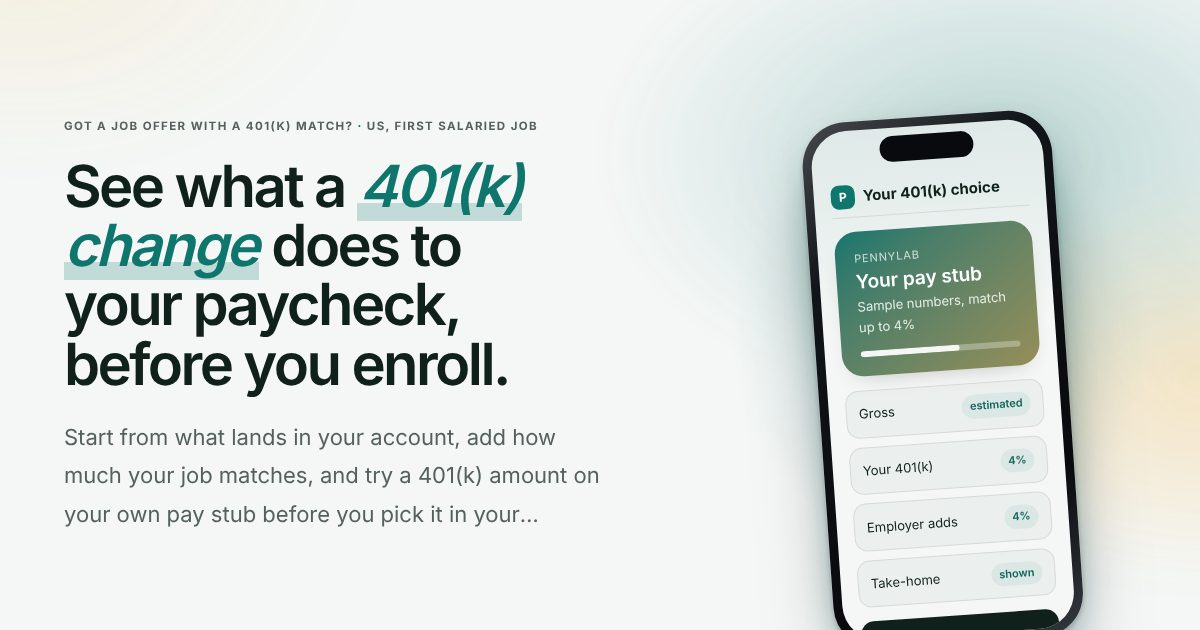
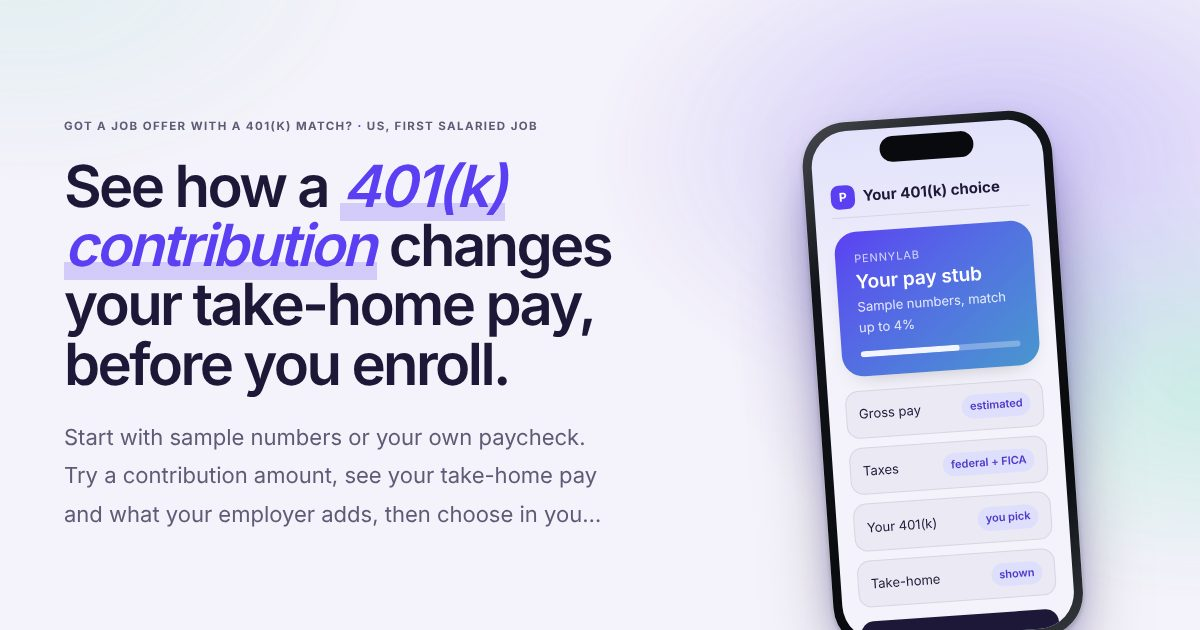
Pennylab page: apply ChatGPT review

diff --git a/pennylab/index.html b/pennylab/index.html
@@ -7,7 +7,7 @@
 <meta name="description" content="Try a 401(k) contribution on your own paycheck and your employer&#x27;s match: see your pay stub, take-home pay and the match you get, with the math shown. No bank link.">
 <link rel="canonical" href="https://nisico.eu/pennylab/">
 <meta name="robots" content="index, follow, max-image-preview:large">
-<meta name="theme-color" content="#F4F7F6">
+<meta name="theme-color" content="#F4F2FA">
 <meta property="og:type" content="website">
 <meta property="og:site_name" content="NISICO">
 <meta property="og:title" content="Pennylab: see what a 401(k) contribution does to your paycheck before you enroll">
@@ -24,9 +24,9 @@
 <link rel="stylesheet" href="/assets/coming-soon.css">
 <link rel="icon" href="/assets/favicon.svg" type="image/svg+xml">
 <script type="application/ld+json">{"@context": "https://schema.org", "@type": "WebPage", "name": "Pennylab: see what a 401(k) contribution does to your paycheck before you enroll", "description": "Try a 401(k) contribution on your own paycheck and your employer's match: see your pay stub, take-home pay and the match you get, with the math shown. No bank link.", "url": "https://nisico.eu/pennylab/", "inLanguage": "en", "isPartOf": {"@type": "WebSite", "name": "NISICO", "url": "https://nisico.eu/"}, "publisher": {"@type": "Organization", "name": "NISICO TECHNOLOGIES SRL", "url": "https://nisico.eu/", "email": "support@nisico.eu"}, "breadcrumb": {"@type": "BreadcrumbList", "itemListElement": [{"@type": "ListItem", "position": 1, "name": "NISICO", "item": "https://nisico.eu/"}, {"@type": "ListItem", "position": 2, "name": "Apps", "item": "https://nisico.eu/apps/"}, {"@type": "ListItem", "position": 3, "name": "Pennylab", "item": "https://nisico.eu/pennylab/"}]}}</script>
-<script type="application/ld+json">{"@context": "https://schema.org", "@type": "FAQPage", "mainEntity": [{"@type": "Question", "name": "Who is it for?", "acceptedAnswer": {"@type": "Answer", "text": "People starting a salaried job in the US who have to pick a 401(k) contribution and want to see the effect on their paycheck first."}}, {"@type": "Question", "name": "Do I have to link my bank or employer account?", "acceptedAnswer": {"@type": "Answer", "text": "No. You type a few numbers yourself, or start with sample numbers. Pennylab never connects to your bank, payroll or 401(k) account. It is built by NISICO, a small independent software studio; no bank, employer or plan provider is involved."}}, {"@type": "Question", "name": "What exactly is estimated?", "acceptedAnswer": {"@type": "Answer", "text": "Your pay before taxes is worked back from your paycheck, and taxes use 2026 federal income tax for a single filer plus Social Security and Medicare. State tax is not included yet. Each estimate is marked, and you can edit your yearly pay if you know it."}}, {"@type": "Question", "name": "Is it free?", "acceptedAnswer": {"@type": "Answer", "text": "The first decision is free. Deeper scenarios may come as an optional one-time purchase, never a subscription you forget about."}}, {"@type": "Question", "name": "Does it tell me what to invest in?", "acceptedAnswer": {"@type": "Answer", "text": "No. It shows what a 401(k) contribution does to your paycheck and match. It never recommends funds or securities."}}]}</script>
+<script type="application/ld+json">{"@context": "https://schema.org", "@type": "FAQPage", "mainEntity": [{"@type": "Question", "name": "What does the estimate include?", "acceptedAnswer": {"@type": "Answer", "text": "Your pay before taxes is worked back from your paycheck. Taxes use 2026 federal income tax for a single filer plus Social Security and Medicare. State income tax is not included yet. Every estimate is marked, and the math is shown under the result."}}, {"@type": "Question", "name": "Does it handle every employer match formula?", "acceptedAnswer": {"@type": "Answer", "text": "Not yet. Pennylab supports a simple dollar-for-dollar match up to a percentage of pay. For a 50% or tiered match, our guide on how a 401(k) match works shows the math."}}, {"@type": "Question", "name": "Do I have to connect my bank or employer account?", "acceptedAnswer": {"@type": "Answer", "text": "No. You type a few numbers yourself, or start with sample numbers. Pennylab never connects to your bank, payroll or 401(k) account. It is built by NISICO, a small independent software studio; no bank, employer or plan provider is involved."}}, {"@type": "Question", "name": "Does it recommend investments?", "acceptedAnswer": {"@type": "Answer", "text": "No. It shows what a 401(k) contribution does to your paycheck and match. It never recommends funds or securities."}}, {"@type": "Question", "name": "Is it free?", "acceptedAnswer": {"@type": "Answer", "text": "The first decision is free. Deeper scenarios may come as an optional one-time purchase, never a subscription you forget about."}}]}</script>
 </head>
-<body class="" style="--bg:#F4F7F6;--ink:#10201B;--accent:#0F766E;--accent2:#F59E0B;--display:var(--sans);--scheme:light">
+<body class="" style="--bg:#F4F2FA;--ink:#1E1838;--accent:#5B3FF2;--accent2:#2FD49A;--display:var(--sans);--scheme:light">
 <a class="skip" href="#main">Skip to content</a>
 <header class="bar">
   <a class="brand" href="/pennylab/"><span class="logo">P</span>Pennylab</a>
@@ -38,8 +38,8 @@
   <div class="glow" aria-hidden="true"></div>
   <div class="hero-copy">
     <p class="kicker">Got a job offer with a 401(k) match? <span>&middot;</span> US, first salaried job</p>
-    <h1>See what a <em>401(k) change</em> does to your paycheck, before you enroll.</h1>
-    <p class="lead">Start from what lands in your account, add how much your job matches, and try a 401(k) amount on your own pay stub before you pick it in your benefits portal. Example: if your job matches up to 4% of a $60,000 salary, putting in 2% leaves $1,200 a year of match unclaimed. Every estimate is labelled, and the math is shown.</p>
+    <h1>See how a <em>401(k) contribution</em> changes your take-home pay, before you enroll.</h1>
+    <p class="lead">Start with sample numbers or your own paycheck. Try a contribution amount, see your take-home pay and what your employer adds, then choose in your benefits portal. Estimates include federal income tax, Social Security and Medicare; state tax is not included yet.</p>
     <form class="wl" data-app="Pennylab" data-slug="pennylab" novalidate>
   <div class="wl-row">
     <label class="sr" for="em1">Email address</label>
@@ -59,7 +59,7 @@
     <div class="ps-top"><span class="ps-logo">P</span><span class="ps-title">Your 401(k) choice</span></div>
     <div class="ps-hero"><small>Pennylab</small><strong>Your pay stub</strong><span>Sample numbers, match up to 4%</span>
       <div class="ps-bar"><i></i></div></div>
-    <ul class="ps-rows"><li><span>Gross</span><b class="v-estimated">estimated</b></li><li><span>Your 401(k)</span><b class="v-4%">4%</b></li><li><span>Employer adds</span><b class="v-4%">4%</b></li><li><span>Take-home</span><b class="v-shown">shown</b></li></ul>
+    <ul class="ps-rows"><li><span>Gross pay</span><b class="v-estimated">estimated</b></li><li><span>Taxes</span><b class="v-federal">federal + FICA</b></li><li><span>Your 401(k)</span><b class="v-you">you pick</b></li><li><span>Take-home</span><b class="v-shown">shown</b></li></ul>
     <div class="ps-cta">Continue</div>
   </div>
 </div><div class="chips"><span class="chip c0"><svg class="ico sm" viewBox="0 0 24 24" aria-hidden="true"><rect x="3" y="6" width="18" height="13" rx="2"/><path d="M3 10h18M16 14.5h2"/></svg>Your paycheck, before and after</span><span class="chip c1"><svg class="ico sm" viewBox="0 0 24 24" aria-hidden="true"><circle cx="12" cy="12" r="8"/><circle cx="12" cy="12" r="4"/><circle cx="12" cy="12" r=".8"/></svg>The match you get, and the match you miss</span></div></div>
@@ -67,7 +67,7 @@
 
 <section class="sec shots-sec" aria-labelledby="i-h">
   <h2 id="i-h" class="sec-h">Inside Pennylab</h2>
-  <div class="shots"><figure class="shot"><div class="shot-frame"><img src="/pennylab/media/01-welcome.webp" alt="Start with your paycheck, or sample numbers" width="390" height="844" loading="lazy" decoding="async"></div><figcaption>Start with your paycheck, or sample numbers</figcaption></figure><figure class="shot"><div class="shot-frame"><img src="/pennylab/media/02-month-and-match.webp" alt="Tell it how much your job matches" width="390" height="844" loading="lazy" decoding="async"></div><figcaption>Tell it how much your job matches</figcaption></figure><figure class="shot"><div class="shot-frame"><img src="/pennylab/media/03-result.webp" alt="See where your pay goes, with the math shown" width="390" height="844" loading="lazy" decoding="async"></div><figcaption>See where your pay goes, with the math shown</figcaption></figure><figure class="shot"><div class="shot-frame"><img src="/pennylab/media/04-paystub-401k.webp" alt="Try a 401(k) amount on your own pay stub" width="390" height="844" loading="lazy" decoding="async"></div><figcaption>Try a 401(k) amount on your own pay stub</figcaption></figure></div>
+  <div class="shots"><figure class="shot"><div class="shot-frame"><img src="/pennylab/media/03-result.webp" alt="Take-home pay and taxes, with the math shown (sample numbers)" width="390" height="844" loading="lazy" decoding="async"></div><figcaption>Take-home pay and taxes, with the math shown (sample numbers)</figcaption></figure><figure class="shot"><div class="shot-frame"><img src="/pennylab/media/02-month-and-match.webp" alt="Tell it how much your job matches" width="390" height="844" loading="lazy" decoding="async"></div><figcaption>Tell it how much your job matches</figcaption></figure><figure class="shot"><div class="shot-frame"><img src="/pennylab/media/04-paystub-401k.webp" alt="Try a 401(k) amount on your own pay stub" width="390" height="844" loading="lazy" decoding="async"></div><figcaption>Try a 401(k) amount on your own pay stub</figcaption></figure><figure class="shot"><div class="shot-frame"><img src="/pennylab/media/01-welcome.webp" alt="Start with your paycheck, or sample numbers" width="390" height="844" loading="lazy" decoding="async"></div><figcaption>Start with your paycheck, or sample numbers</figcaption></figure></div>
 </section>
 
 <section class="sec" aria-labelledby="f-h">
@@ -90,12 +90,12 @@
 
 <section class="sec" aria-labelledby="q-h">
   <h2 id="q-h" class="sec-h">Questions</h2>
-  <div class="faq"><details><summary>Who is it for?</summary><p>People starting a salaried job in the US who have to pick a 401(k) contribution and want to see the effect on their paycheck first.</p></details><details><summary>Do I have to link my bank or employer account?</summary><p>No. You type a few numbers yourself, or start with sample numbers. Pennylab never connects to your bank, payroll or 401(k) account. It is built by NISICO, a small independent software studio; no bank, employer or plan provider is involved.</p></details><details><summary>What exactly is estimated?</summary><p>Your pay before taxes is worked back from your paycheck, and taxes use 2026 federal income tax for a single filer plus Social Security and Medicare. State tax is not included yet. Each estimate is marked, and you can edit your yearly pay if you know it.</p></details><details><summary>Is it free?</summary><p>The first decision is free. Deeper scenarios may come as an optional one-time purchase, never a subscription you forget about.</p></details><details><summary>Does it tell me what to invest in?</summary><p>No. It shows what a 401(k) contribution does to your paycheck and match. It never recommends funds or securities.</p></details></div>
+  <div class="faq"><details><summary>What does the estimate include?</summary><p>Your pay before taxes is worked back from your paycheck. Taxes use 2026 federal income tax for a single filer plus Social Security and Medicare. State income tax is not included yet. Every estimate is marked, and the math is shown under the result.</p></details><details><summary>Does it handle every employer match formula?</summary><p>Not yet. Pennylab supports a simple dollar-for-dollar match up to a percentage of pay. For a 50% or tiered match, our guide on how a 401(k) match works shows the math.</p></details><details><summary>Do I have to connect my bank or employer account?</summary><p>No. You type a few numbers yourself, or start with sample numbers. Pennylab never connects to your bank, payroll or 401(k) account. It is built by NISICO, a small independent software studio; no bank, employer or plan provider is involved.</p></details><details><summary>Does it recommend investments?</summary><p>No. It shows what a 401(k) contribution does to your paycheck and match. It never recommends funds or securities.</p></details><details><summary>Is it free?</summary><p>The first decision is free. Deeper scenarios may come as an optional one-time purchase, never a subscription you forget about.</p></details></div>
 </section>
 
 <section class="sec" aria-labelledby="g-h">
   <h2 id="g-h" class="sec-h">Guides</h2>
-  <div class="guides"><a class="guide-card" href="/pennylab/guides/how-401k-match-works/"><span class="g-k">Guide</span><b>How does a 401(k) match work, and how much should you put in to get all of it?</b><span>A 401(k) match is money your employer adds when you contribute. How to read your match formula, find the rate that gets all of it, and check vesting.</span><span class="g-go">Read the guide &rarr;</span></a><a class="guide-card" href="/pennylab/guides/401k-contribution-take-home-pay/"><span class="g-k">Guide</span><b>How much will a 401(k) contribution lower my take-home pay?</b><span>A pre-tax 401(k) contribution lowers your paycheck by less than you put in, because income tax withholding drops too. The math, step by step, and Roth.</span><span class="g-go">Read the guide &rarr;</span></a><a class="guide-card" href="/pennylab/guides/first-paycheck-smaller-than-expected/"><span class="g-k">Guide</span><b>Why is my first paycheck smaller than I expected? How to read your first pay stub</b><span>Your first paycheck is gross pay minus taxes and deductions, and the first one can also be a partial period. Learn each line of a pay stub and what to check.</span><span class="g-go">Read the guide &rarr;</span></a></div>
+  <div class="guides"><a class="guide-card" href="/pennylab/guides/how-401k-match-works/"><span class="g-k">Guide</span><b>401(k) match explained: how much to contribute to get the full match</b><span>A 401(k) match is money your employer adds when you contribute. How to read your match formula, find the rate that gets all of it, and check vesting.</span><span class="g-go">Read the guide &rarr;</span></a><a class="guide-card" href="/pennylab/guides/401k-contribution-take-home-pay/"><span class="g-k">Guide</span><b>How much does a 401(k) contribution reduce your paycheck?</b><span>A pre-tax 401(k) contribution lowers your paycheck by less than you put in, because income tax withholding drops too. The math, step by step, and Roth.</span><span class="g-go">Read the guide &rarr;</span></a><a class="guide-card" href="/pennylab/guides/first-paycheck-smaller-than-expected/"><span class="g-k">Guide</span><b>Why is my first paycheck smaller than I expected? How to read your first pay stub</b><span>Your first paycheck is gross pay minus taxes and deductions, and the first one can also be a partial period. Learn each line of a pay stub and what to check.</span><span class="g-go">Read the guide &rarr;</span></a></div>
 </section>
 
 <section class="sec join" id="join" aria-labelledby="j-h">

diff --git a/pennylab/guides/how-401k-match-works/index.html b/pennylab/guides/how-401k-match-works/index.html
@@ -3,30 +3,30 @@
 <head>
 <meta charset="utf-8">
 <meta name="viewport" content="width=device-width, initial-scale=1, viewport-fit=cover">
-<title>How does a 401(k) match work, and how much should you put in to get all of it? | Pennylab</title>
+<title>401(k) match explained: how much to contribute to get the full match | Pennylab</title>
 <meta name="description" content="A 401(k) match is money your employer adds when you contribute. How to read your match formula, find the rate that gets all of it, and check vesting.">
 <link rel="canonical" href="https://nisico.eu/pennylab/guides/how-401k-match-works/">
 <meta name="robots" content="index, follow, max-image-preview:large">
-<meta name="theme-color" content="#F4F7F6">
+<meta name="theme-color" content="#F4F2FA">
 <meta property="og:type" content="website">
 <meta property="og:site_name" content="NISICO">
-<meta property="og:title" content="How does a 401(k) match work, and how much should you put in to get all of it? | Pennylab">
+<meta property="og:title" content="401(k) match explained: how much to contribute to get the full match | Pennylab">
 <meta property="og:description" content="A 401(k) match is money your employer adds when you contribute. How to read your match formula, find the rate that gets all of it, and check vesting.">
 <meta property="og:url" content="https://nisico.eu/pennylab/guides/how-401k-match-works/">
 <meta property="og:image" content="https://nisico.eu/pennylab/og.jpg">
 <meta property="og:image:width" content="1200">
 <meta property="og:image:height" content="630">
 <meta name="twitter:card" content="summary_large_image">
-<meta name="twitter:title" content="How does a 401(k) match work, and how much should you put in to get all of it? | Pennylab">
+<meta name="twitter:title" content="401(k) match explained: how much to contribute to get the full match | Pennylab">
 <meta name="twitter:description" content="A 401(k) match is money your employer adds when you contribute. How to read your match formula, find the rate that gets all of it, and check vesting.">
 <meta name="twitter:image" content="https://nisico.eu/pennylab/og.jpg">
 <link rel="preload" href="/assets/fonts/inter-latin-wght.woff2" as="font" type="font/woff2" crossorigin>
 <link rel="stylesheet" href="/assets/coming-soon.css">
 <link rel="icon" href="/assets/favicon.svg" type="image/svg+xml">
-<script type="application/ld+json">{"@context": "https://schema.org", "@type": "Article", "headline": "How does a 401(k) match work, and how much should you put in to get all of it?", "description": "A 401(k) match is money your employer adds when you contribute. How to read your match formula, find the rate that gets all of it, and check vesting.", "datePublished": "2026-11-02", "dateModified": "2026-11-02", "inLanguage": "en", "mainEntityOfPage": "https://nisico.eu/pennylab/guides/how-401k-match-works/", "image": "https://nisico.eu/pennylab/og.jpg", "author": {"@type": "Organization", "name": "The Pennylab team at NISICO", "url": "https://nisico.eu/"}, "publisher": {"@type": "Organization", "name": "NISICO TECHNOLOGIES SRL", "url": "https://nisico.eu/", "logo": {"@type": "ImageObject", "url": "https://nisico.eu/assets/favicon.svg"}}}</script>
-<script type="application/ld+json">{"@context": "https://schema.org", "@type": "BreadcrumbList", "itemListElement": [{"@type": "ListItem", "position": 1, "name": "NISICO", "item": "https://nisico.eu/"}, {"@type": "ListItem", "position": 2, "name": "Pennylab", "item": "https://nisico.eu/pennylab/"}, {"@type": "ListItem", "position": 3, "name": "How does a 401(k) match work, and how much should you put in to get all of it?", "item": "https://nisico.eu/pennylab/guides/how-401k-match-works/"}]}</script>
+<script type="application/ld+json">{"@context": "https://schema.org", "@type": "Article", "headline": "401(k) match explained: how much to contribute to get the full match", "description": "A 401(k) match is money your employer adds when you contribute. How to read your match formula, find the rate that gets all of it, and check vesting.", "datePublished": "2026-11-02", "dateModified": "2026-11-02", "inLanguage": "en", "mainEntityOfPage": "https://nisico.eu/pennylab/guides/how-401k-match-works/", "image": "https://nisico.eu/pennylab/og.jpg", "author": {"@type": "Organization", "name": "The Pennylab team at NISICO", "url": "https://nisico.eu/"}, "publisher": {"@type": "Organization", "name": "NISICO TECHNOLOGIES SRL", "url": "https://nisico.eu/", "logo": {"@type": "ImageObject", "url": "https://nisico.eu/assets/favicon.svg"}}}</script>
+<script type="application/ld+json">{"@context": "https://schema.org", "@type": "BreadcrumbList", "itemListElement": [{"@type": "ListItem", "position": 1, "name": "NISICO", "item": "https://nisico.eu/"}, {"@type": "ListItem", "position": 2, "name": "Pennylab", "item": "https://nisico.eu/pennylab/"}, {"@type": "ListItem", "position": 3, "name": "401(k) match explained: how much to contribute to get the full match", "item": "https://nisico.eu/pennylab/guides/how-401k-match-works/"}]}</script>
 </head>
-<body class="guide-page " style="--bg:#F4F7F6;--ink:#10201B;--accent:#0F766E;--accent2:#F59E0B;--display:var(--sans);--scheme:light">
+<body class="guide-page " style="--bg:#F4F2FA;--ink:#1E1838;--accent:#5B3FF2;--accent2:#2FD49A;--display:var(--sans);--scheme:light">
 <a class="skip" href="#main">Skip to content</a>
 <header class="bar">
   <a class="brand" href="/pennylab/"><span class="logo">P</span>Pennylab</a>
@@ -35,7 +35,7 @@
 </header>
 <main id="main" class="article">
   <nav class="crumbs" aria-label="Breadcrumb"><a href="/pennylab/">Pennylab</a> <span>/</span> Guides</nav>
-  <h1>How does a 401(k) match work, and how much should you put in to get all of it?</h1>
+  <h1>401(k) match explained: how much to contribute to get the full match</h1>
   <p class="a-lead">A 401(k) match is money your employer adds when you contribute. How to read your match formula, find the rate that gets all of it, and check vesting.</p>
   <p class="a-meta">By the Pennylab team &middot; Updated <time datetime="2026-11-02">2026-11-02</time></p>
   <article class="prose"><p><strong>Short answer:</strong> an employer match is money your employer adds to your 401(k) when you contribute from your own paycheck. The formula in your offer letter or plan booklet tells you how much they add and up to what point. To get the whole match, you contribute at least up to the limit in that formula (for example, 6% of pay for a "50% up to 6%" match). Below that rate, you leave part of the match unclaimed. Whether you also <em>keep</em> the match if you leave the job depends on your plan's vesting schedule.</p>
@@ -95,7 +95,7 @@
 </tbody>
 </table>
 <p>Going from 6% to 10% puts more of your own money in, but the employer adds nothing more. Going from 3% to 6% doubles what the employer adds. That is why the "up to" number is a natural first checkpoint.</p>
-<p>What this table does <em>not</em> show is what each rate does to your take-home pay, which is often the real worry in a first job. A traditional (pre-tax) contribution lowers your paycheck by less than the amount you contribute, because it also lowers your income tax withholding. We walk through that in <a href="/pennylab/guides/401k-contribution-take-home-pay/">How much will a 401(k) contribution lower my take-home pay?</a>.</p>
+<p>What this table does <em>not</em> show is what each rate does to your take-home pay, which is often the real worry in a first job. A traditional (pre-tax) contribution lowers your paycheck by less than the amount you contribute, because it also lowers your income tax withholding. We walk through that in <a href="/pennylab/guides/401k-contribution-take-home-pay/">How much does a 401(k) contribution reduce your paycheck?</a>.</p>
 <h2>Four details that change the answer</h2>
 <h3>1. Vesting: when the match is really yours</h3>
 <p>Your own contributions are always 100% yours. The employer's match may vest over time. Under federal rules, a plan's match must vest at least as fast as one of two schedules: 100% after 3 years of service ("cliff"), or a graded schedule that reaches 20% after 2 years and 100% after 6 (<a href="https://www.irs.gov/retirement-plans/plan-participant-employee/retirement-topics-vesting">IRS, Retirement Topics: Vesting</a>). Many plans vest faster, some immediately. If you might leave within a couple of years, check your schedule in the SPD.</p>
@@ -119,7 +119,7 @@
 <p>Pennylab is a simulator for this decision. You enter what lands in your account each payday and up to how much of your pay your job matches (or start with sample numbers), then try a 401(k) amount on your own pay stub and see your take-home pay and what your employer adds, with the math shown under the result. It handles the simple "matches up to X% of pay" case today; for a 50% or tiered formula, use the table above. It does not link to your bank or employer and does not recommend investments.</p>
 <p><em>This guide is general education, not financial, tax or legal advice. Plans differ; your plan documents are the final word.</em></p></article>
   <section class="sources"><h2>Sources</h2><ol><li><a href="https://corporate.vanguard.com/content/corporatesite/us/en/corp/articles/new-401k-match-formulas-can-unlock-retirement-gains.html" rel="noopener">Vanguard research, 2026</a></li><li><a href="https://www.irs.gov/retirement-plans/plan-participant-employee/retirement-topics-vesting" rel="noopener">IRS, Retirement Topics: Vesting</a></li><li><a href="https://www.irs.gov/taxtopics/tc424" rel="noopener">IRS Topic 424</a></li><li><a href="https://www.irs.gov/retirement-plans/roth-comparison-chart" rel="noopener">IRS Roth comparison chart</a></li><li><a href="https://www.irs.gov/newsroom/401k-limit-increases-to-24500-for-2026-ira-limit-increases-to-7500" rel="noopener">IRS, Nov. 13, 2025</a></li></ol></section>
-  <section class="a-cta" id="join"><h2>Pennylab: See what a 401(k) change does to your paycheck, before you enroll.</h2><p>Start from what lands in your account, add how much your job matches, and try a 401(k) amount on your own pay stub before you pick it in your benefits portal. Example: if your job matches up to 4% of a $60,000 salary, putting in 2% leaves $1,200 a year of match unclaimed. Every estimate is labelled, and the math is shown.</p><form class="wl" data-app="Pennylab" data-slug="pennylab" novalidate>
+  <section class="a-cta" id="join"><h2>Pennylab: See how a 401(k) contribution changes your take-home pay, before you enroll.</h2><p>Start with sample numbers or your own paycheck. Try a contribution amount, see your take-home pay and what your employer adds, then choose in your benefits portal. Estimates include federal income tax, Social Security and Medicare; state tax is not included yet.</p><form class="wl" data-app="Pennylab" data-slug="pennylab" novalidate>
   <div class="wl-row">
     <label class="sr" for="em3">Email address</label>
     <input id="em3" type="email" name="email" autocomplete="email" inputmode="email" placeholder="you@example.com" required aria-describedby="note3 err3">
@@ -130,7 +130,7 @@
   <p class="wl-note" id="note3">One email when Pennylab launches. No spam, unsubscribe any time. <a href="#privacy">How we use it</a>.</p>
   <p class="wl-done" role="status" aria-live="polite" hidden></p>
 </form></section>
-  <aside class="g-more"><h2>More guides</h2><ul><li><a href="/pennylab/guides/401k-contribution-take-home-pay/">How much will a 401(k) contribution lower my take-home pay?</a></li><li><a href="/pennylab/guides/first-paycheck-smaller-than-expected/">Why is my first paycheck smaller than I expected? How to read your first pay stub</a></li></ul></aside>
+  <aside class="g-more"><h2>More guides</h2><ul><li><a href="/pennylab/guides/401k-contribution-take-home-pay/">How much does a 401(k) contribution reduce your paycheck?</a></li><li><a href="/pennylab/guides/first-paycheck-smaller-than-expected/">Why is my first paycheck smaller than I expected? How to read your first pay stub</a></li></ul></aside>
 </main>
 <footer class="foot">
   <p class="disc">Pennylab is an educational simulator. It does not provide financial, tax, legal or investment advice, and its results are estimates. It is not affiliated with or endorsed by the IRS, any employer, plan provider or financial institution. This guide is general information, not professional advice.</p>

diff --git a/pennylab/guides/401k-contribution-take-home-pay/index.html b/pennylab/guides/401k-contribution-take-home-pay/index.html
@@ -3,30 +3,30 @@
 <head>
 <meta charset="utf-8">
 <meta name="viewport" content="width=device-width, initial-scale=1, viewport-fit=cover">
-<title>How much will a 401(k) contribution lower my take-home pay? | Pennylab</title>
+<title>How much does a 401(k) contribution reduce your paycheck? | Pennylab</title>
 <meta name="description" content="A pre-tax 401(k) contribution lowers your paycheck by less than you put in, because income tax withholding drops too. The math, step by step, and Roth.">
 <link rel="canonical" href="https://nisico.eu/pennylab/guides/401k-contribution-take-home-pay/">
 <meta name="robots" content="index, follow, max-image-preview:large">
-<meta name="theme-color" content="#F4F7F6">
+<meta name="theme-color" content="#F4F2FA">
 <meta property="og:type" content="website">
 <meta property="og:site_name" content="NISICO">
-<meta property="og:title" content="How much will a 401(k) contribution lower my take-home pay? | Pennylab">
+<meta property="og:title" content="How much does a 401(k) contribution reduce your paycheck? | Pennylab">
 <meta property="og:description" content="A pre-tax 401(k) contribution lowers your paycheck by less than you put in, because income tax withholding drops too. The math, step by step, and Roth.">
 <meta property="og:url" content="https://nisico.eu/pennylab/guides/401k-contribution-take-home-pay/">
 <meta property="og:image" content="https://nisico.eu/pennylab/og.jpg">
 <meta property="og:image:width" content="1200">
 <meta property="og:image:height" content="630">
 <meta name="twitter:card" content="summary_large_image">
-<meta name="twitter:title" content="How much will a 401(k) contribution lower my take-home pay? | Pennylab">
+<meta name="twitter:title" content="How much does a 401(k) contribution reduce your paycheck? | Pennylab">
 <meta name="twitter:description" content="A pre-tax 401(k) contribution lowers your paycheck by less than you put in, because income tax withholding drops too. The math, step by step, and Roth.">
 <meta name="twitter:image" content="https://nisico.eu/pennylab/og.jpg">
 <link rel="preload" href="/assets/fonts/inter-latin-wght.woff2" as="font" type="font/woff2" crossorigin>
 <link rel="stylesheet" href="/assets/coming-soon.css">
 <link rel="icon" href="/assets/favicon.svg" type="image/svg+xml">
-<script type="application/ld+json">{"@context": "https://schema.org", "@type": "Article", "headline": "How much will a 401(k) contribution lower my take-home pay?", "description": "A pre-tax 401(k) contribution lowers your paycheck by less than you put in, because income tax withholding drops too. The math, step by step, and Roth.", "datePublished": "2026-11-02", "dateModified": "2026-11-02", "inLanguage": "en", "mainEntityOfPage": "https://nisico.eu/pennylab/guides/401k-contribution-take-home-pay/", "image": "https://nisico.eu/pennylab/og.jpg", "author": {"@type": "Organization", "name": "The Pennylab team at NISICO", "url": "https://nisico.eu/"}, "publisher": {"@type": "Organization", "name": "NISICO TECHNOLOGIES SRL", "url": "https://nisico.eu/", "logo": {"@type": "ImageObject", "url": "https://nisico.eu/assets/favicon.svg"}}}</script>
-<script type="application/ld+json">{"@context": "https://schema.org", "@type": "BreadcrumbList", "itemListElement": [{"@type": "ListItem", "position": 1, "name": "NISICO", "item": "https://nisico.eu/"}, {"@type": "ListItem", "position": 2, "name": "Pennylab", "item": "https://nisico.eu/pennylab/"}, {"@type": "ListItem", "position": 3, "name": "How much will a 401(k) contribution lower my take-home pay?", "item": "https://nisico.eu/pennylab/guides/401k-contribution-take-home-pay/"}]}</script>
+<script type="application/ld+json">{"@context": "https://schema.org", "@type": "Article", "headline": "How much does a 401(k) contribution reduce your paycheck?", "description": "A pre-tax 401(k) contribution lowers your paycheck by less than you put in, because income tax withholding drops too. The math, step by step, and Roth.", "datePublished": "2026-11-02", "dateModified": "2026-11-02", "inLanguage": "en", "mainEntityOfPage": "https://nisico.eu/pennylab/guides/401k-contribution-take-home-pay/", "image": "https://nisico.eu/pennylab/og.jpg", "author": {"@type": "Organization", "name": "The Pennylab team at NISICO", "url": "https://nisico.eu/"}, "publisher": {"@type": "Organization", "name": "NISICO TECHNOLOGIES SRL", "url": "https://nisico.eu/", "logo": {"@type": "ImageObject", "url": "https://nisico.eu/assets/favicon.svg"}}}</script>
+<script type="application/ld+json">{"@context": "https://schema.org", "@type": "BreadcrumbList", "itemListElement": [{"@type": "ListItem", "position": 1, "name": "NISICO", "item": "https://nisico.eu/"}, {"@type": "ListItem", "position": 2, "name": "Pennylab", "item": "https://nisico.eu/pennylab/"}, {"@type": "ListItem", "position": 3, "name": "How much does a 401(k) contribution reduce your paycheck?", "item": "https://nisico.eu/pennylab/guides/401k-contribution-take-home-pay/"}]}</script>
 </head>
-<body class="guide-page " style="--bg:#F4F7F6;--ink:#10201B;--accent:#0F766E;--accent2:#F59E0B;--display:var(--sans);--scheme:light">
+<body class="guide-page " style="--bg:#F4F2FA;--ink:#1E1838;--accent:#5B3FF2;--accent2:#2FD49A;--display:var(--sans);--scheme:light">
 <a class="skip" href="#main">Skip to content</a>
 <header class="bar">
   <a class="brand" href="/pennylab/"><span class="logo">P</span>Pennylab</a>
@@ -35,7 +35,7 @@
 </header>
 <main id="main" class="article">
   <nav class="crumbs" aria-label="Breadcrumb"><a href="/pennylab/">Pennylab</a> <span>/</span> Guides</nav>
-  <h1>How much will a 401(k) contribution lower my take-home pay?</h1>
+  <h1>How much does a 401(k) contribution reduce your paycheck?</h1>
   <p class="a-lead">A pre-tax 401(k) contribution lowers your paycheck by less than you put in, because income tax withholding drops too. The math, step by step, and Roth.</p>
   <p class="a-meta">By the Pennylab team &middot; Updated <time datetime="2026-11-02">2026-11-02</time></p>
   <article class="prose"><p><strong>Short answer:</strong> with a traditional (pre-tax) 401(k), your take-home pay drops by <strong>less</strong> than the amount you contribute. The contribution is taken out before federal income tax is withheld, so your income tax withholding goes down too. Social Security and Medicare are still withheld on the full amount. With a Roth 401(k), the contribution comes out after tax, so your take-home pay drops by roughly the full amount.</p>
@@ -94,7 +94,7 @@
 </tr>
 </tbody>
 </table>
-<p>Compared with contributing nothing: in this example, $138.46 goes into your 401(k), but your paycheck shrinks by about $116. If your plan matches 50% up to 6%, the employer adds about $69 more on top. You can see how the match works in <a href="/pennylab/guides/how-401k-match-works/">How does a 401(k) match work?</a>.</p>
+<p>Compared with contributing nothing: in this example, $138.46 goes into your 401(k), but your paycheck shrinks by about $116. If your plan matches 50% up to 6%, the employer adds about $69 more on top. You can see how the match works in <a href="/pennylab/guides/how-401k-match-works/">401(k) match explained</a>.</p>
 <p>Three cautions about this kind of estimate:</p>
 <ol type="1">
 <li><strong>Withholding is not your final tax.</strong> Withholding tables approximate your yearly tax; the real number is settled on your tax return. Your first paychecks can also look different if you started mid-year.</li>
@@ -124,7 +124,7 @@
 <p>Pennylab is a simulator for this decision. You enter what lands in your account each payday and your employer's match (or start with sample numbers), try a 401(k) amount, and see the change on your own pay stub. Estimates are marked as estimates: federal income tax for a single filer plus Social Security and Medicare, with state tax not included yet. It does not link to your bank or payroll and does not recommend investments.</p>
 <p><em>This guide is general education, not financial, tax or legal advice. Tax rules and plan rules vary; check your own documents or a qualified professional.</em></p></article>
   <section class="sources"><h2>Sources</h2><ol><li><a href="https://www.irs.gov/taxtopics/tc424" rel="noopener">IRS Topic 424</a></li><li><a href="https://www.irs.gov/taxtopics/tc751" rel="noopener">IRS Topic 751</a></li><li><a href="https://www.irs.gov/retirement-plans/roth-comparison-chart" rel="noopener">IRS Roth comparison chart</a></li><li><a href="https://www.irs.gov/filing/federal-income-tax-rates-and-brackets" rel="noopener">IRS, federal income tax rates and brackets</a></li><li><a href="https://www.irs.gov/publications/p15b" rel="noopener">IRS Publication 15-B</a></li><li><a href="https://www.irs.gov/individuals/tax-withholding-estimator" rel="noopener">Tax Withholding Estimator</a></li><li><a href="https://www.irs.gov/forms-pubs/about-form-w-4" rel="noopener">Form W-4</a></li></ol></section>
-  <section class="a-cta" id="join"><h2>Pennylab: See what a 401(k) change does to your paycheck, before you enroll.</h2><p>Start from what lands in your account, add how much your job matches, and try a 401(k) amount on your own pay stub before you pick it in your benefits portal. Example: if your job matches up to 4% of a $60,000 salary, putting in 2% leaves $1,200 a year of match unclaimed. Every estimate is labelled, and the math is shown.</p><form class="wl" data-app="Pennylab" data-slug="pennylab" novalidate>
+  <section class="a-cta" id="join"><h2>Pennylab: See how a 401(k) contribution changes your take-home pay, before you enroll.</h2><p>Start with sample numbers or your own paycheck. Try a contribution amount, see your take-home pay and what your employer adds, then choose in your benefits portal. Estimates include federal income tax, Social Security and Medicare; state tax is not included yet.</p><form class="wl" data-app="Pennylab" data-slug="pennylab" novalidate>
   <div class="wl-row">
     <label class="sr" for="em3">Email address</label>
     <input id="em3" type="email" name="email" autocomplete="email" inputmode="email" placeholder="you@example.com" required aria-describedby="note3 err3">
@@ -135,7 +135,7 @@
   <p class="wl-note" id="note3">One email when Pennylab launches. No spam, unsubscribe any time. <a href="#privacy">How we use it</a>.</p>
   <p class="wl-done" role="status" aria-live="polite" hidden></p>
 </form></section>
-  <aside class="g-more"><h2>More guides</h2><ul><li><a href="/pennylab/guides/how-401k-match-works/">How does a 401(k) match work, and how much should you put in to get all of it?</a></li><li><a href="/pennylab/guides/first-paycheck-smaller-than-expected/">Why is my first paycheck smaller than I expected? How to read your first pay stub</a></li></ul></aside>
+  <aside class="g-more"><h2>More guides</h2><ul><li><a href="/pennylab/guides/how-401k-match-works/">401(k) match explained: how much to contribute to get the full match</a></li><li><a href="/pennylab/guides/first-paycheck-smaller-than-expected/">Why is my first paycheck smaller than I expected? How to read your first pay stub</a></li></ul></aside>
 </main>
 <footer class="foot">
   <p class="disc">Pennylab is an educational simulator. It does not provide financial, tax, legal or investment advice, and its results are estimates. It is not affiliated with or endorsed by the IRS, any employer, plan provider or financial institution. This guide is general information, not professional advice.</p>

diff --git a/pennylab/guides/first-paycheck-smaller-than-expected/index.html b/pennylab/guides/first-paycheck-smaller-than-expected/index.html
@@ -7,7 +7,7 @@
 <meta name="description" content="Your first paycheck is gross pay minus taxes and deductions, and the first one can also be a partial period. Learn each line of a pay stub and what to check.">
 <link rel="canonical" href="https://nisico.eu/pennylab/guides/first-paycheck-smaller-than-expected/">
 <meta name="robots" content="index, follow, max-image-preview:large">
-<meta name="theme-color" content="#F4F7F6">
+<meta name="theme-color" content="#F4F2FA">
 <meta property="og:type" content="website">
 <meta property="og:site_name" content="NISICO">
 <meta property="og:title" content="Why is my first paycheck smaller than I expected? How to read your first pay stub | Pennylab">
@@ -26,7 +26,7 @@
 <script type="application/ld+json">{"@context": "https://schema.org", "@type": "Article", "headline": "Why is my first paycheck smaller than I expected? How to read your first pay stub", "description": "Your first paycheck is gross pay minus taxes and deductions, and the first one can also be a partial period. Learn each line of a pay stub and what to check.", "datePublished": "2026-11-02", "dateModified": "2026-11-02", "inLanguage": "en", "mainEntityOfPage": "https://nisico.eu/pennylab/guides/first-paycheck-smaller-than-expected/", "image": "https://nisico.eu/pennylab/og.jpg", "author": {"@type": "Organization", "name": "The Pennylab team at NISICO", "url": "https://nisico.eu/"}, "publisher": {"@type": "Organization", "name": "NISICO TECHNOLOGIES SRL", "url": "https://nisico.eu/", "logo": {"@type": "ImageObject", "url": "https://nisico.eu/assets/favicon.svg"}}}</script>
 <script type="application/ld+json">{"@context": "https://schema.org", "@type": "BreadcrumbList", "itemListElement": [{"@type": "ListItem", "position": 1, "name": "NISICO", "item": "https://nisico.eu/"}, {"@type": "ListItem", "position": 2, "name": "Pennylab", "item": "https://nisico.eu/pennylab/"}, {"@type": "ListItem", "position": 3, "name": "Why is my first paycheck smaller than I expected? How to read your first pay stub", "item": "https://nisico.eu/pennylab/guides/first-paycheck-smaller-than-expected/"}]}</script>
 </head>
-<body class="guide-page " style="--bg:#F4F7F6;--ink:#10201B;--accent:#0F766E;--accent2:#F59E0B;--display:var(--sans);--scheme:light">
+<body class="guide-page " style="--bg:#F4F2FA;--ink:#1E1838;--accent:#5B3FF2;--accent2:#2FD49A;--display:var(--sans);--scheme:light">
 <a class="skip" href="#main">Skip to content</a>
 <header class="bar">
   <a class="brand" href="/pennylab/"><span class="logo">P</span>Pennylab</a>
@@ -139,12 +139,12 @@
 </ul>
 <p>Each time, compare the new stub with the previous one line by line, the same way as above.</p>
 <h2>Your next decision: the 401(k) rate</h2>
-<p>For many people the first paycheck is the moment they realise the 401(k) rate they picked during onboarding changes what lands in their account. A pre-tax contribution lowers take-home pay by less than its size, and contributing at least up to your employer's match formula means you get the full match. See <a href="/pennylab/guides/401k-contribution-take-home-pay/">How much will a 401(k) contribution lower my take-home pay?</a> and <a href="/pennylab/guides/how-401k-match-works/">How does a 401(k) match work?</a>.</p>
+<p>For many people the first paycheck is the moment they realise the 401(k) rate they picked during onboarding changes what lands in their account. A pre-tax contribution lowers take-home pay by less than its size, and contributing at least up to your employer's match formula means you get the full match. See <a href="/pennylab/guides/401k-contribution-take-home-pay/">How much does a 401(k) contribution reduce your paycheck?</a> and <a href="/pennylab/guides/how-401k-match-works/">401(k) match explained</a>.</p>
 <h2>Try it on your own numbers</h2>
 <p>Pennylab starts from what lands in your account and works back to an estimated pay stub, then lets you try a 401(k) amount and see what your employer adds before you enroll or change it. Estimates are marked, and the math is shown under the result. No bank link, no investment picks.</p>
 <p><em>This guide is general education, not financial, tax or legal advice. Payroll rules vary by employer and state.</em></p></article>
   <section class="sources"><h2>Sources</h2><ol><li><a href="https://www.irs.gov/forms-pubs/about-form-w-4" rel="noopener">IRS, About Form W-4</a></li><li><a href="https://www.irs.gov/individuals/tax-withholding-estimator" rel="noopener">Tax Withholding Estimator</a></li><li><a href="https://www.irs.gov/taxtopics/tc751" rel="noopener">IRS Topic 751</a></li><li><a href="https://www.irs.gov/publications/p15b" rel="noopener">IRS Publication 15-B</a></li><li><a href="https://www.irs.gov/taxtopics/tc424" rel="noopener">IRS Topic 424</a></li><li><a href="https://webapps.dol.gov/elaws/faq/esa/flsa/018.htm" rel="noopener">U.S. Department of Labor FAQ</a></li></ol></section>
-  <section class="a-cta" id="join"><h2>Pennylab: See what a 401(k) change does to your paycheck, before you enroll.</h2><p>Start from what lands in your account, add how much your job matches, and try a 401(k) amount on your own pay stub before you pick it in your benefits portal. Example: if your job matches up to 4% of a $60,000 salary, putting in 2% leaves $1,200 a year of match unclaimed. Every estimate is labelled, and the math is shown.</p><form class="wl" data-app="Pennylab" data-slug="pennylab" novalidate>
+  <section class="a-cta" id="join"><h2>Pennylab: See how a 401(k) contribution changes your take-home pay, before you enroll.</h2><p>Start with sample numbers or your own paycheck. Try a contribution amount, see your take-home pay and what your employer adds, then choose in your benefits portal. Estimates include federal income tax, Social Security and Medicare; state tax is not included yet.</p><form class="wl" data-app="Pennylab" data-slug="pennylab" novalidate>
   <div class="wl-row">
     <label class="sr" for="em3">Email address</label>
     <input id="em3" type="email" name="email" autocomplete="email" inputmode="email" placeholder="you@example.com" required aria-describedby="note3 err3">
@@ -155,7 +155,7 @@
   <p class="wl-note" id="note3">One email when Pennylab launches. No spam, unsubscribe any time. <a href="#privacy">How we use it</a>.</p>
   <p class="wl-done" role="status" aria-live="polite" hidden></p>
 </form></section>
-  <aside class="g-more"><h2>More guides</h2><ul><li><a href="/pennylab/guides/how-401k-match-works/">How does a 401(k) match work, and how much should you put in to get all of it?</a></li><li><a href="/pennylab/guides/401k-contribution-take-home-pay/">How much will a 401(k) contribution lower my take-home pay?</a></li></ul></aside>
+  <aside class="g-more"><h2>More guides</h2><ul><li><a href="/pennylab/guides/how-401k-match-works/">401(k) match explained: how much to contribute to get the full match</a></li><li><a href="/pennylab/guides/401k-contribution-take-home-pay/">How much does a 401(k) contribution reduce your paycheck?</a></li></ul></aside>
 </main>
 <footer class="foot">
   <p class="disc">Pennylab is an educational simulator. It does not provide financial, tax, legal or investment advice, and its results are estimates. It is not affiliated with or endorsed by the IRS, any employer, plan provider or financial institution. This guide is general information, not professional advice.</p>
